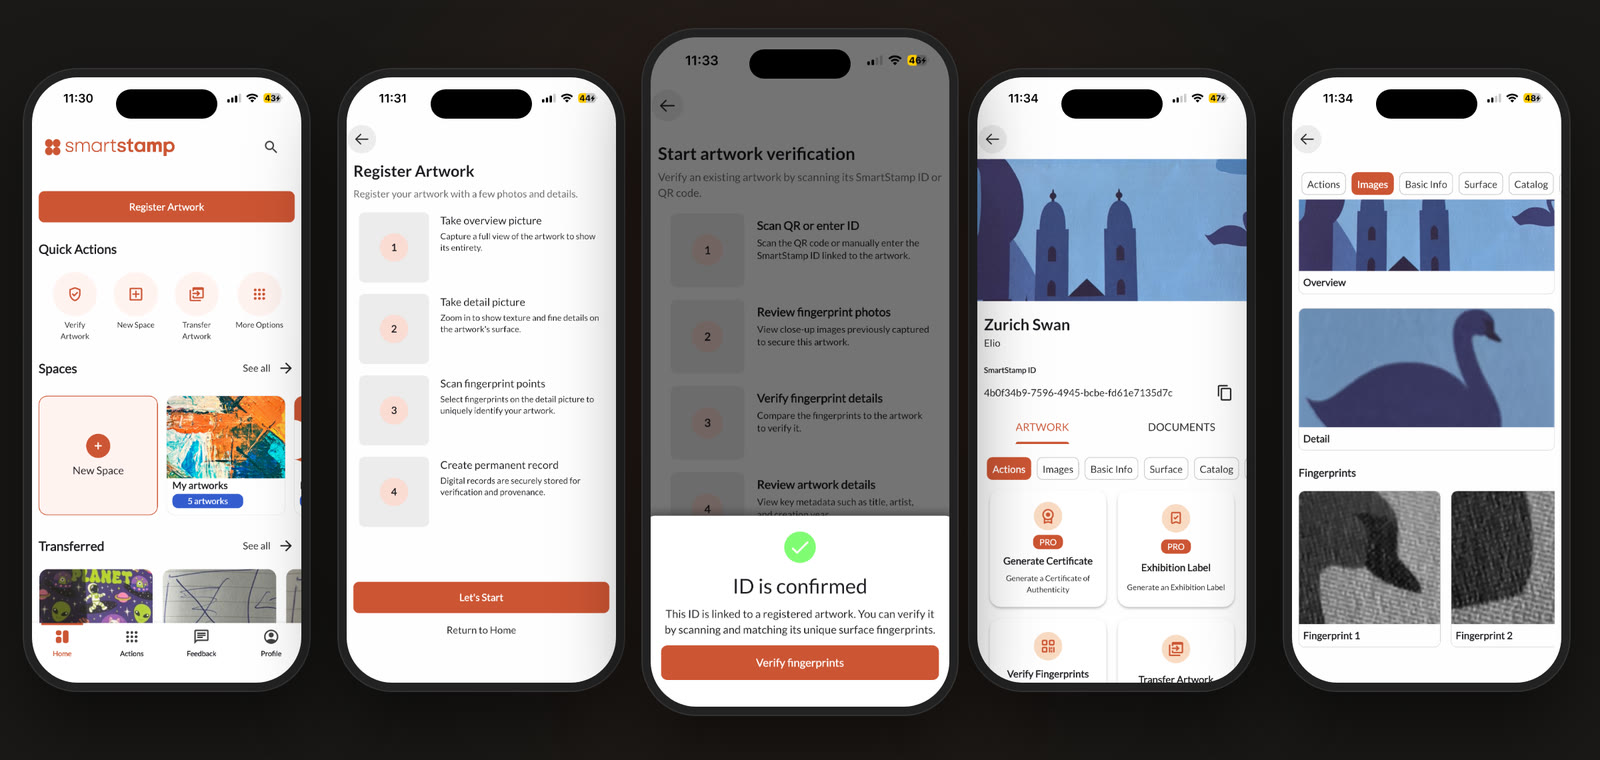
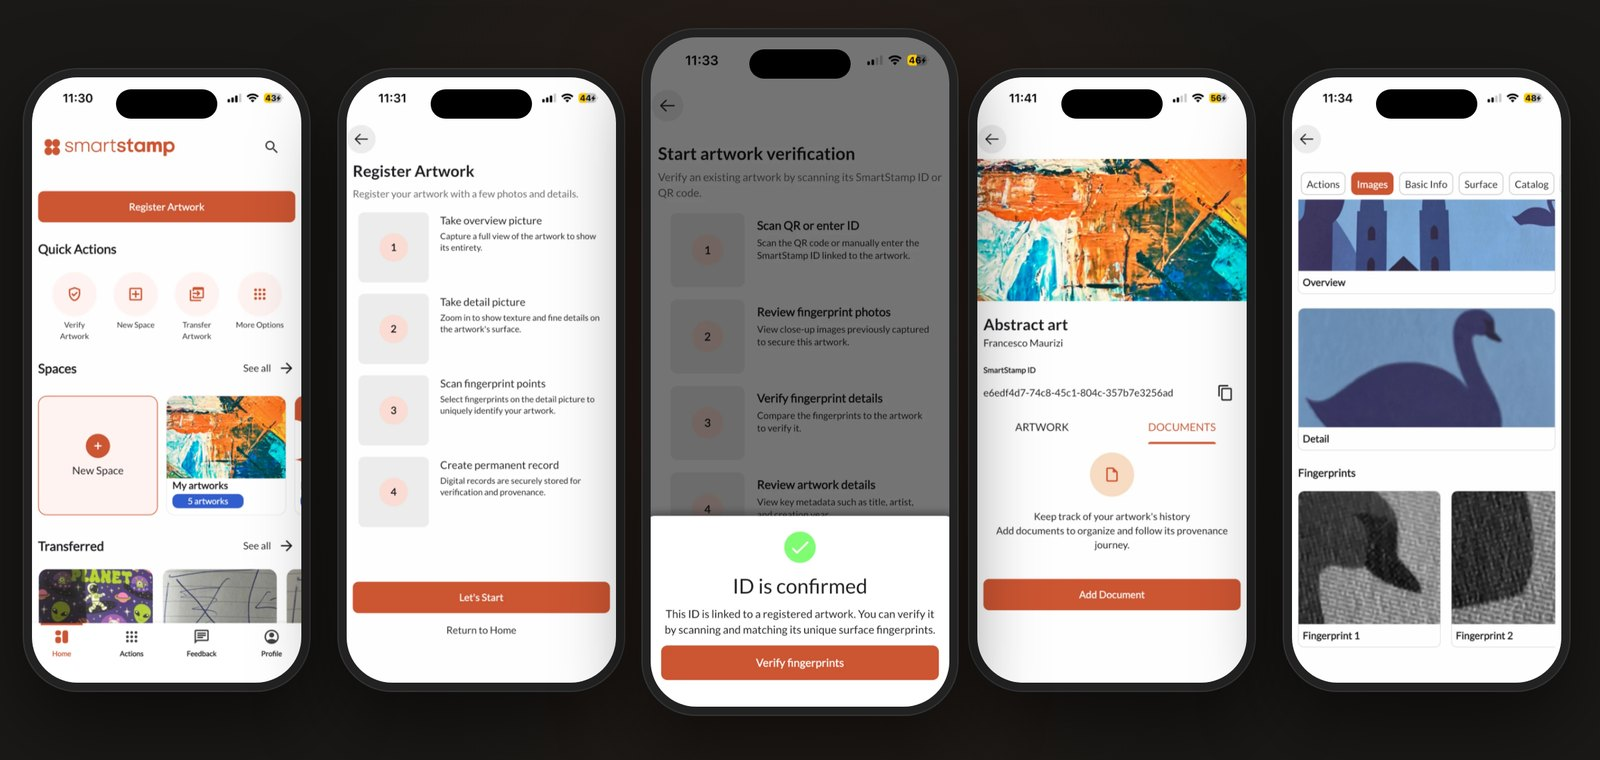
Case studies: lead each section with the decision and trade-off
- Each feature section opens with the product decision, the reason and
  the trade-off, written into the prose.
- Provenance anchored to a public ledger through OriginStamp.
- North Star: works verified per month; coverage is the input metric.
- Mobile: integrity certificate only, no certificate of authenticity;
  screens showing the old certificate button replaced; home screen cut.
- Flutter trade-offs stated; contradictory "full UI control" line removed.

diff --git a/SmartStamp-Mobile-Portfolio.html b/SmartStamp-Mobile-Portfolio.html
@@ -276,6 +276,7 @@ nav {
   line-height: 1.8;
   max-width: 480px;
 }
+.feature-text p + p { margin-top: 14px; }
 .feature-phones {
   display: flex;
   align-items: flex-start;
@@ -304,7 +305,7 @@ nav {
 }
 
 /* ── Architecture appendix: reference material, closed by default ── */
-.appendix-section { background: var(--bg); padding: 56px 80px; }
+.appendix-section { background: var(--bg-alt); padding: 56px 80px; }
 .appendix-inner { max-width: 1100px; margin: 0 auto; }
 .appendix summary {
   display: flex; align-items: center; justify-content: space-between; gap: 16px;
@@ -446,7 +447,7 @@ footer { background: var(--dark); padding: 56px 80px; }
     </div>
     <div class="iphone-frame hero-phone-main">
       <div class="iphone-dynamic-island"></div>
-      <div class="iphone-screen"><img src="mobile-screenshots/06-passport.webp" alt="Digital passport for a fingerprinted artwork" width="1179" height="2556" loading="eager" decoding="async" /></div>
+      <div class="iphone-screen"><img src="mobile-screenshots/05-scan-complete.webp" alt="Verification screen confirming a registered SmartStamp ID" width="1179" height="2556" loading="eager" decoding="async" /></div>
       <div class="iphone-home-bar"></div>
     </div>
     <div class="iphone-frame hero-phone-right">
@@ -461,7 +462,7 @@ footer { background: var(--dark); padding: 56px 80px; }
 <section class="overview" id="overview">
   <div class="overview-inner">
     <h2>Overview</h2>
-    <p class="overview-body">The app covers the physical side of SmartStamp. Most works are registered under a microscope, and the app is then used to verify them: it guides the user through capturing the registered details again and checks them against the fingerprint on record. Each work has a digital passport in the app, with its SmartStamp ID, ownership record, surface images and documents. When a work changes hands, the current owner transfers it in the app, and the ownership record updates immediately in the web platform used by gallery staff.</p>
+    <p class="overview-body">The app came first. Usage data then showed that galleries and auction houses, not individual collectors, were driving adoption, so the focus moved to the web platform and the app's main job became verification. Most works are now registered under a microscope, and the app guides the user through capturing the registered details again and checks them against the fingerprint on record. Each work has a digital passport in the app with its SmartStamp ID, ownership record, surface images and documents. When a work changes hands, the current owner transfers it in the app, and the record updates immediately on the web platform.</p>
   </div>
 </section>
 
@@ -493,7 +494,8 @@ footer { background: var(--dark); padding: 56px 80px; }
   <div class="feature-inner">
     <div class="feature-text">
       <h2>Registration and verification</h2>
-      <p>Verification starts from a QR code or a SmartStamp ID. The app guides the user to the registered details, captures them again, compares them with the fingerprint on record and then shows the ownership details. Most works are registered under a microscope, but the app can also register a work in four steps: an overview photo, a close-up detail shot, the selection of fingerprint points on the surface, and submission to create the record.</p>
+      <p>Verification starts from a QR code or a SmartStamp ID, and the app takes the user through the capture one step at a time. Whoever is checking a work usually has no training in surface imaging, so the app says exactly which detail to photograph and where. It then compares the new images with the fingerprint on record and shows the ownership details.</p>
+      <p>Most works are registered under a microscope, but the app can also register a work in four steps: an overview photo, a close-up of a detail, the choice of fingerprint points on the surface, and submission.</p>
     </div>
     <div class="feature-phones">
       <div class="iphone-frame">
@@ -522,17 +524,12 @@ footer { background: var(--dark); padding: 56px 80px; }
   <div class="feature-inner reverse">
     <div class="feature-text">
       <h2>Artwork record</h2>
-      <p>The artwork detail view brings together the SmartStamp ID, the ownership record, the surface images and any attached documents. The Images tab shows the overview photo, the close-up detail and each fingerprint capture side by side, so anyone holding the work can compare it with the registered record without specialist equipment.</p>
+      <p>The Images tab places each fingerprint capture next to the registered one, so anyone holding the work can compare the two without specialist equipment. The same screen holds the SmartStamp ID, the ownership record, the overview and detail photos, and any attached documents.</p>
     </div>
     <div class="feature-phones">
       <div class="iphone-frame">
       <div class="iphone-dynamic-island"></div>
-      <div class="iphone-screen"><img src="mobile-screenshots/06-passport.webp" alt="Digital passport for a fingerprinted artwork" width="1179" height="2556" loading="lazy" decoding="async" /></div>
-      <div class="iphone-home-bar"></div>
-    </div>
-      <div class="iphone-frame secondary">
-      <div class="iphone-dynamic-island"></div>
-      <div class="iphone-screen"><img src="mobile-screenshots/07-passport-scans.webp" alt="Scan history for an artwork's digital passport" width="1179" height="2556" loading="lazy" decoding="async" /></div>
+      <div class="iphone-screen"><img src="mobile-screenshots/07-passport-scans.webp" alt="Fingerprint captures shown next to the registered images" width="1179" height="2556" loading="lazy" decoding="async" /></div>
       <div class="iphone-home-bar"></div>
     </div>
     </div>
@@ -544,7 +541,8 @@ footer { background: var(--dark); padding: 56px 80px; }
   <div class="feature-inner">
     <div class="feature-text">
       <h2>Ownership transfer</h2>
-      <p>To transfer a work, the current owner enters the recipient's email address and confirms. A final warning states that the transfer cannot be undone. Once it is confirmed, the digital passport updates immediately and both parties receive an email with the transfer record. The previous ownership history stays in the record.</p>
+      <p>Transfers are final, because nobody should be able to undo a change of ownership on their own. The current owner enters the recipient's email address, gets a last warning that the transfer cannot be undone, and confirms. The digital passport updates at once, both parties receive an email with the transfer record, and the earlier ownership history stays in place.</p>
+      <p>The price of that rule is that a mistaken transfer can only be fixed by the new owner sending the work back.</p>
     </div>
     <div class="feature-phones">
       <div class="iphone-frame">
@@ -561,41 +559,18 @@ footer { background: var(--dark); padding: 56px 80px; }
   <div class="feature-inner reverse">
     <div class="feature-text">
       <h2>Documents and certificates</h2>
-      <p>The app supports eight document types: Certificate of Authenticity, Condition Report, Appraisal, Insurance, Ownership, Provenance Record, Restoration Report and Other. Each document is attached to a specific artwork and stored in Firebase Storage. The Certificate of Authenticity is generated from the artwork's metadata and can be downloaded as a PDF without any other software.</p>
+      <p>Every document is stored on the artwork it belongs to, so the paperwork stays with the work when it changes hands. The app takes eight document types, among them appraisals, insurance and condition reports, and owners can upload certificates they already hold.</p>
+      <p>SmartStamp issues one document itself: an integrity certificate generated from the artwork's record, which downloads as a PDF.</p>
     </div>
     <div class="feature-phones">
       <div class="iphone-frame">
       <div class="iphone-dynamic-island"></div>
-      <div class="iphone-screen"><img src="mobile-screenshots/11-doc-generate.webp" alt="Generating a certificate of authenticity" width="1179" height="2556" loading="lazy" decoding="async" /></div>
+      <div class="iphone-screen"><img src="mobile-screenshots/10-doc-storage.webp" alt="Documents stored on an artwork" width="1179" height="2556" loading="lazy" decoding="async" /></div>
       <div class="iphone-home-bar"></div>
     </div>
-      <div class="phones-pair">
-        <div class="iphone-frame secondary">
+      <div class="iphone-frame secondary">
       <div class="iphone-dynamic-island"></div>
-      <div class="iphone-screen"><img src="mobile-screenshots/10-doc-storage.webp" alt="Document storage for an artwork" width="1179" height="2556" loading="lazy" decoding="async" /></div>
-      <div class="iphone-home-bar"></div>
-    </div>
-        <div class="iphone-frame secondary">
-      <div class="iphone-dynamic-island"></div>
-      <div class="iphone-screen"><img src="mobile-screenshots/12-certificate.webp" alt="Generated certificate of authenticity" width="1179" height="2556" loading="lazy" decoding="async" /></div>
-      <div class="iphone-home-bar"></div>
-    </div>
-      </div>
-    </div>
-  </div>
-</section>
-
-<!-- 5: Dashboard -->
-<section class="feature">
-  <div class="feature-inner">
-    <div class="feature-text">
-      <h2>Home screen</h2>
-      <p>The home screen gives access to the four main actions: verify an artwork, create a space, transfer ownership and more options. Spaces group artworks by collection or location, and the Transferred section lists recent ownership changes. Data syncs from Firestore in real time, so gallery staff and collectors see the same records.</p>
-    </div>
-    <div class="feature-phones">
-      <div class="iphone-frame">
-      <div class="iphone-dynamic-island"></div>
-      <div class="iphone-screen"><img src="mobile-screenshots/02-home.webp" alt="Mobile app home screen showing the artwork collection" width="1179" height="2556" loading="lazy" decoding="async" /></div>
+      <div class="iphone-screen"><img src="mobile-screenshots/11-doc-generate.webp" alt="Adding a document to an artwork" width="1179" height="2556" loading="lazy" decoding="async" /></div>
       <div class="iphone-home-bar"></div>
     </div>
     </div>
@@ -610,11 +585,11 @@ footer { background: var(--dark); padding: 56px 80px; }
     <details class="appendix">
       <summary><h2>Architecture</h2><span class="appendix-toggle">Details</span></summary>
       <div class="appendix-body">
-        <p class="tech-stack-intro">The app is a single Flutter codebase for iOS and Android. Firebase handles real-time sync, authentication and file storage, PostHog tracks product usage, and Postmark sends the transactional email for ownership transfers and document sharing.</p>
+        <p class="tech-stack-intro">The app is one Flutter codebase for iOS and Android, which is what let both platforms ship in under six months with one team. In exchange, the app sits further from each platform: native features come through plugins, there is less control over fine UI details, and the app relies on community packages that can be deprecated. Firebase handles real-time sync, authentication and file storage, PostHog tracks product usage, and Postmark sends the transactional email for ownership transfers and document sharing.</p>
         <div class="arch-cards">
           <div class="arch-card">
             <h3 class="arch-card-title">Flutter, single codebase</h3>
-            <p class="arch-card-body">One Dart codebase ships to both iOS and Android. The UI is fully custom, without third-party component libraries, which gives full control over the interaction and visual design of every fingerprinting flow.</p>
+            <p class="arch-card-body">One Dart codebase ships to iOS and Android. Device features such as the camera are reached through plugins, which have to be kept up to date as each platform changes.</p>
           </div>
           <div class="arch-card">
             <h3 class="arch-card-title">Firebase, real-time sync</h3>

diff --git a/SmartStamp-Portfolio.html b/SmartStamp-Portfolio.html
@@ -151,6 +151,7 @@
     letter-spacing: -0.025em; margin-bottom: 18px; line-height: 1.2;
   }
   .section-body { font-size: 15px; line-height: 1.8; color: var(--gray); max-width: 66ch; }
+  .section-body + .section-body { margin-top: 16px; }
 
   /* ── My role ── */
   .role { padding: 80px 48px; border-top: 1px solid var(--border); }
@@ -393,7 +394,7 @@
       </div>
       <div class="problem-card">
         <div class="problem-title">Disconnected collection data</div>
-        <div class="problem-body">Gallery data usually sits in separate systems or spreadsheets. SmartStamp imports it from CSV exports and the mobile app and adds verification on top.</div>
+        <div class="problem-body">Collection data usually sits in separate systems or spreadsheets. SmartStamp imports it from CSV exports and the mobile app and adds verification on top.</div>
       </div>
     </div>
   </div>
@@ -428,12 +429,10 @@
       <div class="feature-text">
         <h2 class="section-title">Fingerprint registration and verification</h2>
         <p class="section-body">
-          Registration is carried out with microscopes mounted on gantries, which capture close-up images
-          of selected surface details such as brushwork, gilding and engraving. Together these captures form
-          the fingerprint of the piece. The fingerprint can then be cross-verified with another microscope
-          or with a mobile phone, and each matched detail returns a score. Verified works carry the
-          Integrity Stamp throughout the web app, in grids, tables and detail views. Unverified works
-          show a muted outline badge.
+          Registration runs on microscopes mounted on gantries, and verification works with a phone or a second microscope. Registration sits on fixed hardware because a reliable fingerprint needs every capture taken the same way. Verification has the opposite constraint: it has to work wherever the piece happens to be.
+        </p>
+        <p class="section-body">
+          A registration captures close-up images of selected surface details such as brushwork, gilding and engraving, and together they form the fingerprint of the piece. At verification, each matched detail returns a score. Verified works carry the Integrity Stamp across the web app, and unverified ones show a muted outline badge. The cost is onboarding: because registration needs hardware on site, bringing in a collection takes a visit rather than a download.
         </p>
       </div>
       <div class="carousel" aria-roledescription="carousel" aria-label="Microscope registration">
@@ -483,10 +482,10 @@
       <div class="feature-text">
         <h2 class="section-title">Collection registry</h2>
         <p class="section-body">
-          The registry has two views: a masonry grid (24 items per page) and a data table (50 items).
-          The active view, filters, and search query all live in the URL, so browser back and forward
-          work as expected and you can share a filtered view as a link. Search runs across title,
-          artist, and medium as you type. One click filters down to stamped or unstamped works only.
+          Art businesses already keep their inventory in other tools, and none of them want to enter it all again. The registry sits on top of those tools instead of replacing them: works come in from a CSV export, and SmartStamp adds verification. The data then lives in two places, and a record starts out only as good as the import, but it can be corrected and completed in SmartStamp afterwards.
+        </p>
+        <p class="section-body">
+          There are two views, a masonry grid (24 items per page) and a data table (50 items). The view, filters and search query all live in the URL, so back and forward work as expected and a filtered view can be shared as a link. Search covers title, artist and medium as you type, and one click narrows the list to stamped or unstamped works.
         </p>
       </div>
       <div class="screenshot-full" style="margin-bottom:16px">
@@ -511,10 +510,10 @@
       <div class="feature-text">
         <h2 class="section-title">Provenance record</h2>
         <p class="section-body">
-          Each artwork has a provenance record built from five sections: the ownership history
-          (acquisition method, price, verified status), exhibition appearances, publications, appraisals
-          in any currency, and condition reports with photo attachments. Every time something is added,
-          it gets written into the hash trail as a timestamped SHA-256 entry.
+          Every provenance entry is written into a SHA-256 hash trail, and the hashes are anchored to a public ledger through OriginStamp. Provenance is only worth something if no one, SmartStamp included, can change it without leaving a trace, and a public ledger lets anyone check that an entry existed at a given time. Only the hash leaves SmartStamp, so prices and owners stay private. The catch is timing: OriginStamp batches hashes before writing them to the blockchain, so an entry cannot be proven publicly until its batch is confirmed.
+        </p>
+        <p class="section-body">
+          A record has five parts: ownership history (acquisition method, price, verified status), exhibition appearances, publications, appraisals in any currency, and condition reports with photo attachments. Every addition goes into the artwork's hash trail with a timestamp.
         </p>
       </div>
       <div class="screenshot-full" style="margin-bottom:16px">
@@ -539,10 +538,10 @@
       <div class="feature-text">
         <h2 class="section-title">Document generation and signing</h2>
         <p class="section-body">
-          SmartStamp generates 13 artwork document types and 6 gallery-level ones from branded HTML
-          templates. You can edit the content before locking it, then send it for signing via a link.
-          The person signing doesn't need an account. Status goes from draft to pending to signed, and
-          every signing event gets recorded in the hash trail.
+          Signing is built into SmartStamp, and the person signing just opens a link. Buyers, lenders and museums often deal with a business once, and asking them to open an account would hold up the paperwork. A link is a weaker identity check than a login, which is why every signing event is written into the hash trail.
+        </p>
+        <p class="section-body">
+          SmartStamp generates 13 document types for artworks and 6 for the business itself, all from branded HTML templates. Content stays editable until it is locked, and each document moves from draft to pending to signed.
         </p>
       </div>
       <div class="screenshot-full" style="margin-bottom:16px">
@@ -567,9 +566,10 @@
       <div class="feature-text">
         <h2 class="section-title">Collection integrity dashboard</h2>
         <p class="section-body">
-          The dashboard shows fingerprint coverage as an animated progress bar, a breakdown of where
-          artworks came from (CSV, mobile app, or manual entry), a summary of the documents
-          vault, and a recent activity feed.
+          The North Star is the number of works verified each month, with each work counted once so repeat scans don't inflate it. A verification is the moment a fingerprint does its job for the customer, which makes it an early sign of whether they will renew and register more works. A running total of registered works would only look back at onboarding that already happened. The customer dashboard leads with the input each customer controls, fingerprint coverage of their collection, since a work has to be registered before anyone can verify it.
+        </p>
+        <p class="section-body">
+          Below the coverage bar are a breakdown of where works came from (CSV, mobile app or manual entry), a summary of the documents vault and a recent activity feed.
         </p>
       </div>
       <div class="screenshot-full" style="margin-bottom:16px">
